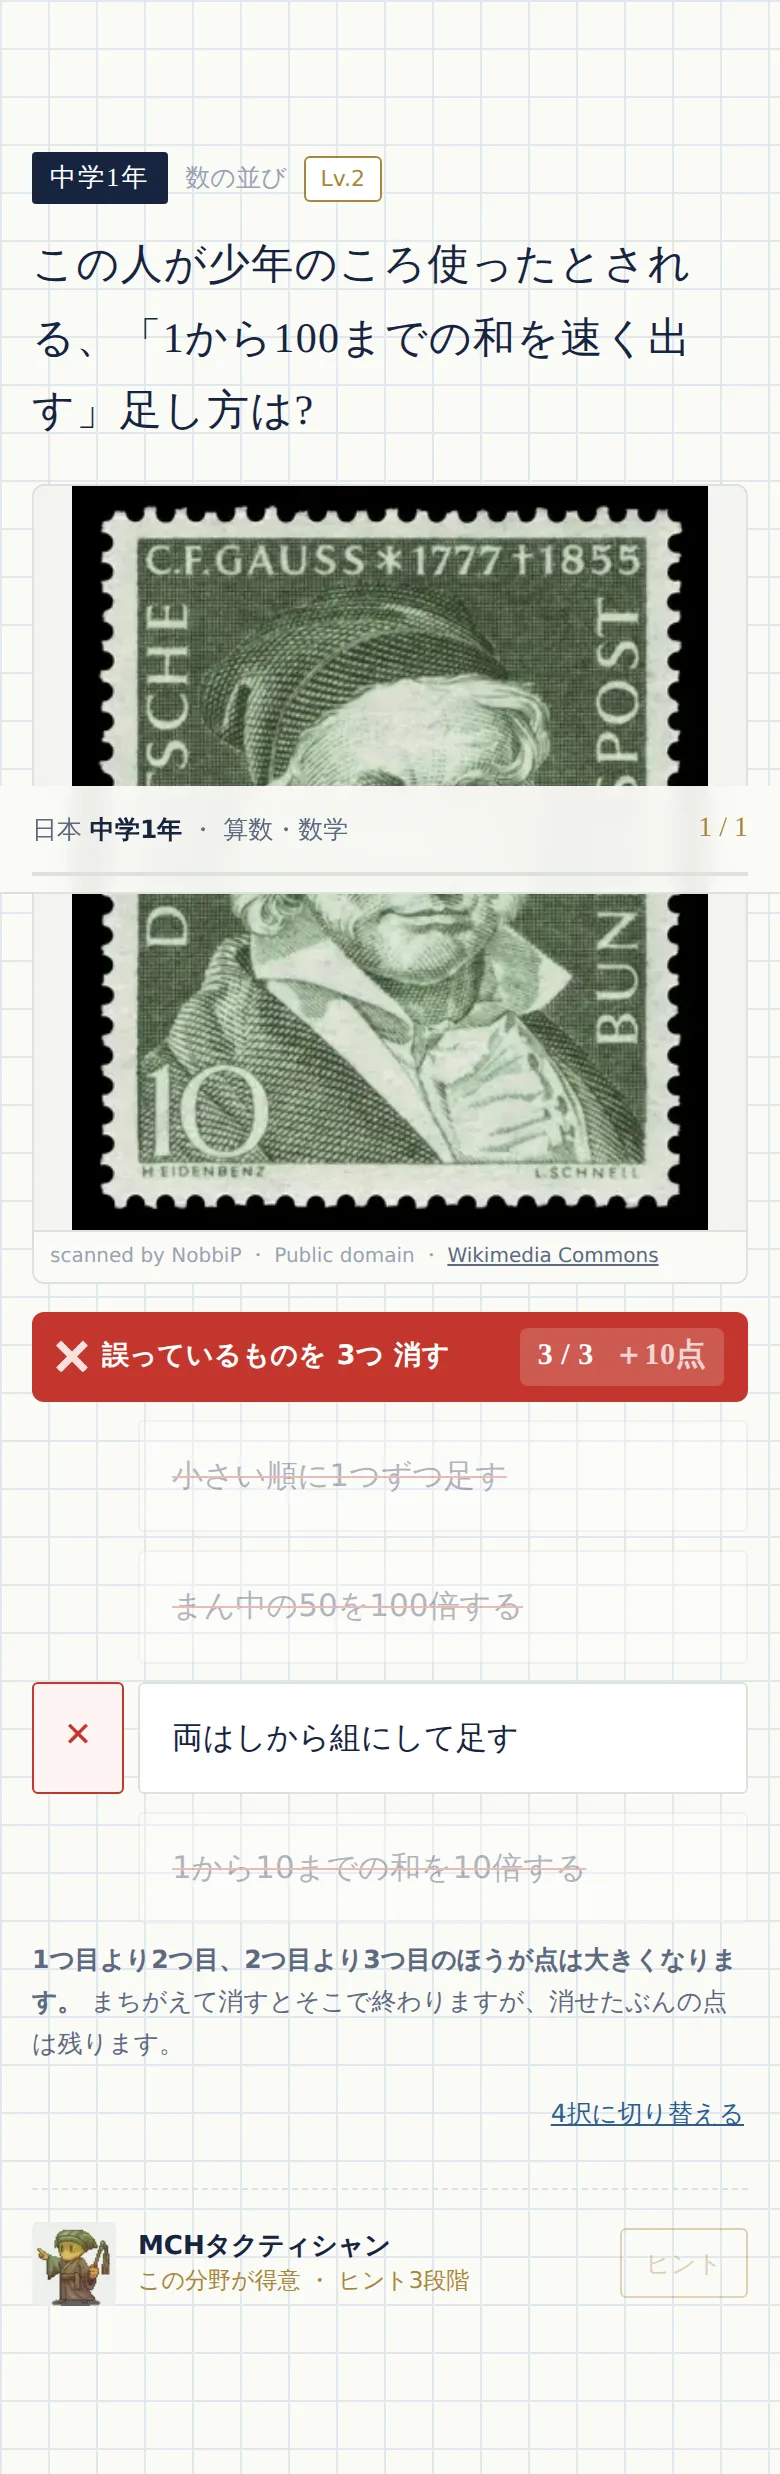
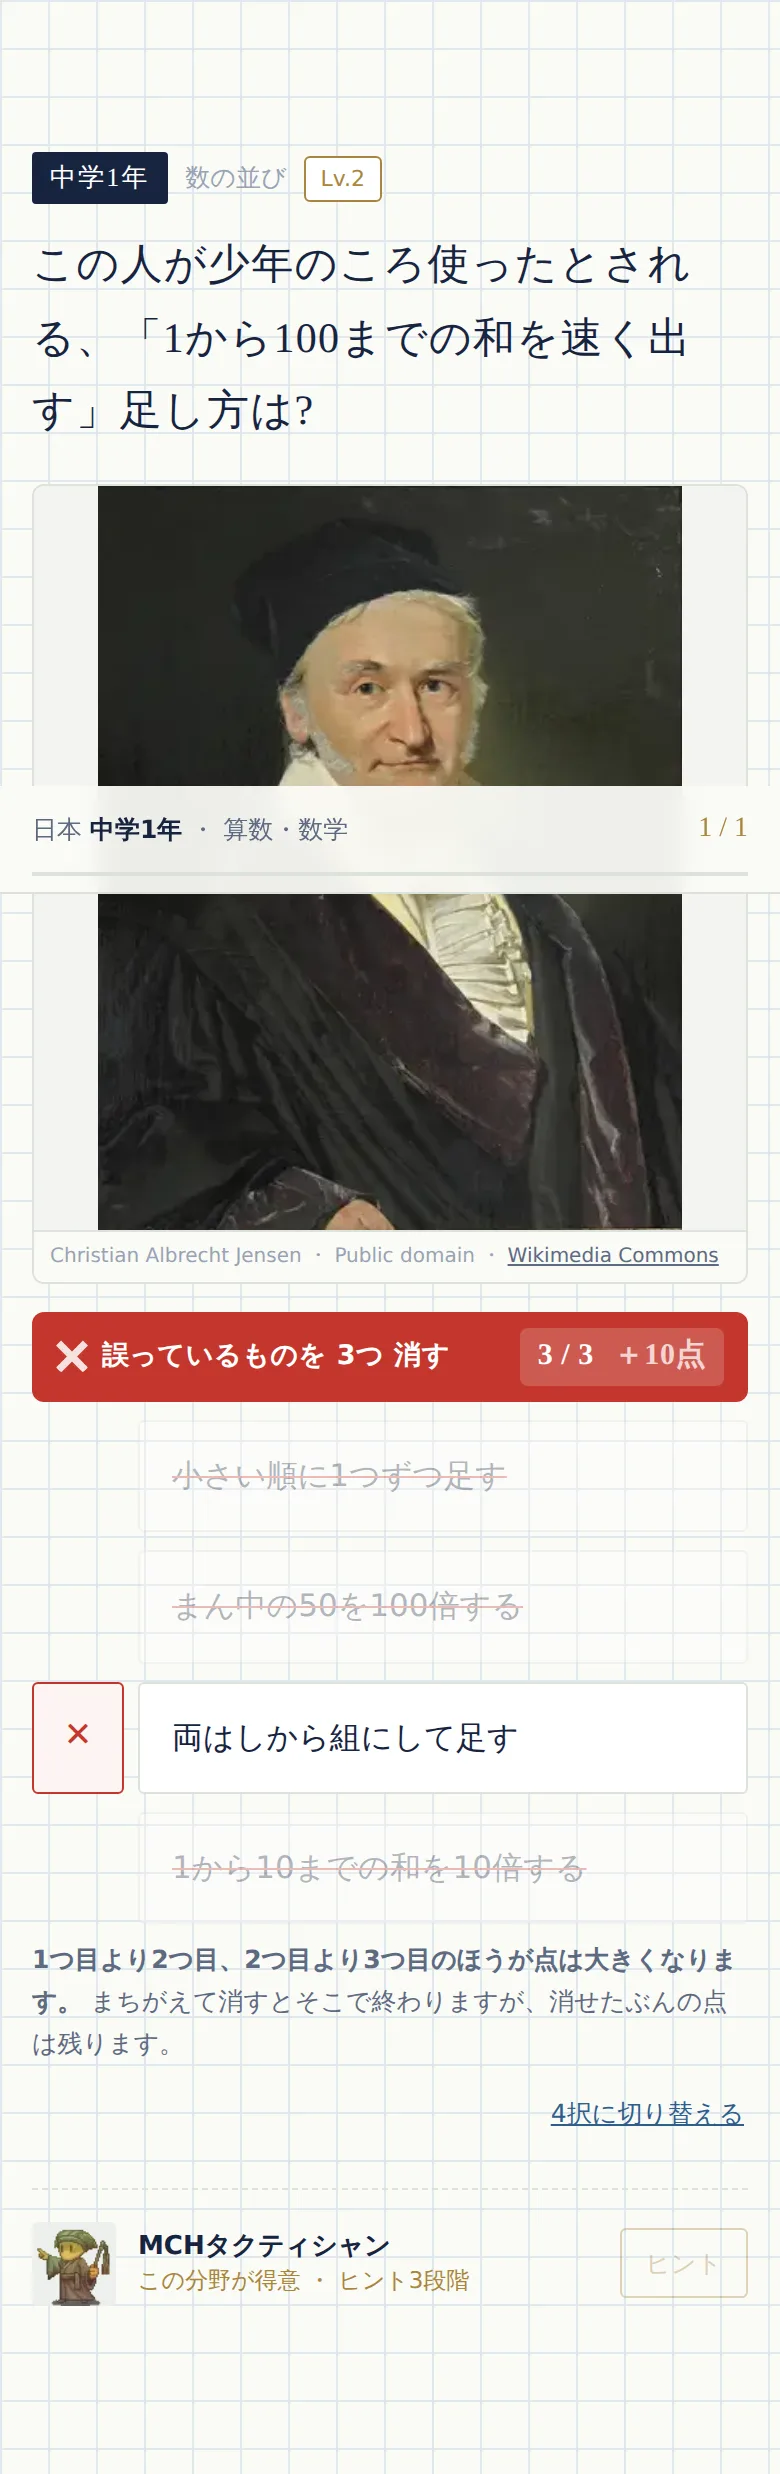
写真3枚を配線し、切手を肖像画に差し替える
採れた3枚（いずれも PD / CC0）を実際に画面へ入れた。

- sansu-105 の写真を、ガウスの切手から Jensen の肖像画へ。
  切手には C.F.GAUSS と刷られていて、応用編「この人の名前は?」が
  絵から読めてしまっていた。肖像画には文字が無いので問いが成立する
- kokugo-012 を4枚とも写真にし、役目を終えた線画4つを figures.json
  から外した（図版 11 → 7）

あわせて3つ直した。

- クレジットに「&amp;」と出ていた。コモンズの Artist 欄は HTML なので、
  タグを外すだけでは実体参照が残る。commons-lib で復号するようにした
- validate が choiceArt を数えず、使っている写真を「参照されていません」と
  誤警告していた
- smoke が絵を svg で数えていて、写真に差し替えたとたん 0 になった。
  包み（.cart）で数える形にして、図版でも写真でも通るようにした

犬の写真は狙いと違うものが採れている（立ち姿のつもりが、伏せて箱を
くわえた上からの絵）。読めなくはないが4枚でいちばん弱い。
差し替え候補を review-points.md §19 に残した。

Claude-Session: https://claude.ai/code/session_01HQarYNyuWkC6NYJVcfcKzq

Changed region(s): [[0.0923, 0.1867, 0.9231, 0.5291]]

diff --git a/docs/screens/index.html b/docs/screens/index.html
@@ -27,7 +27,7 @@ figcaption{padding:10px 13px 13px}
 @media (max-width:480px){main{padding:14px;gap:14px}}
 </style></head><body>
 <header><h1>画面の一覧 ・ 24 / 24 枚</h1>
-<p>2026-09-16 12:13 に <code>npm run shots</code> で撮ったもの。幅 390px（iPhone相当）の実機ブラウザーです。
+<p>2026-09-16 22:30 に <code>npm run shots</code> で撮ったもの。幅 390px（iPhone相当）の実機ブラウザーです。
 絵を押すと原寸で開きます。<b>「S-06 の帯が…」のようにIDで指してください。</b>
 出題の画面には、撮ったときの設問IDも出しています。
 実機で見ているときは、URLの末尾に <code>#review</code> を付けると画面の隅に同じ番号が出ます。</p></header>
@@ -118,7 +118,7 @@ figcaption{padding:10px 13px 13px}
     <p class="nm">解説</p>
     <p class="nt">正解でも不正解でも出る。知識カードとGUMもここ</p>
     <p class="qid">設問 <b>sansu-105</b></p>
-    <p class="sz">780×2474 ・ 128KB</p>
+    <p class="sz">780×2474 ・ 91KB</p>
   </figcaption></figure>
 <figure class="">
   <div class="shot"><a href="S-12.webp" target="_blank" rel="noopener"><img src="S-12.webp" alt="応用編（二段構え）" loading="lazy"></a></div>
@@ -126,7 +126,7 @@ figcaption{padding:10px 13px 13px}
     <p class="nm">応用編（二段構え）</p>
     <p class="nt">正解したときだけ出る。定理 → 発見者</p>
     <p class="qid">設問 <b>sansu-105</b></p>
-    <p class="sz">780×2474 ・ 128KB</p>
+    <p class="sz">780×2474 ・ 91KB</p>
   </figcaption></figure>
 <figure class="">
   <div class="shot"><a href="S-13.webp" target="_blank" rel="noopener"><img src="S-13.webp" alt="スワイプのふりかえり" loading="lazy"></a></div>

diff --git a/docs/review-points.md b/docs/review-points.md
@@ -945,3 +945,31 @@ www.wikidata.org:443      - 同上
 - [ ] **`npm run pick:commons` は作りすぎでした。** 「私が探せない」という前提で
       組んだものです。前提が変わったので、いまは**自分で選びたいときの道具**に
       格下げしています。消してはいません（実体引きはこちらにも効くため）
+
+## 19. 写真3枚が入りました ← 新規
+
+| キー | 採れたもの | ライセンス | 判定 |
+|---|---|---|---|
+| `gauss-portrait` | Jensen による肖像画（1840） | PD | **文句なし。** 画中に文字が無い |
+| `obj-pan` | 網の上の丸いパン | CC0 | 使える。切り込みと焼き色で「パン」と読める |
+| `obj-inu` | 布の上で顔を伏せた子犬 | CC0 | **いちばん弱い** |
+
+- [ ] **犬の写真は、狙っていたものと違います。** 「全身が見える向きで立っている」
+      つもりが、**上から見た伏せの姿勢で、小さな箱をくわえています。**
+      88px で見ると白黒の塊に近く、4枚のうちいちばん読みにくいです。
+      ◯◯（2文字）が効くので当てられはしますが、**差し替えるならここです**
+      （候補：`File:Dog (Unsplash).jpg` / `File:Goldendoodle standing.jpg`）
+- [x] `sansu-105` を切手から肖像画へ差し替えました。**応用編「この人の名前は?」が
+      本物の問いになりました**（切手には `C.F.GAUSS` と刷られていたため）
+- [x] `kokugo-012` を4枚とも写真にし、`ja-yama` ほか4つの線画を `figures.json` から
+      外しました（図版 11 → 7）
+
+### 19-1. 直したもの
+
+- **クレジットに `&amp;` と出ていました。** コモンズの Artist 欄は HTML なので、
+  タグを外すだけでは実体参照が残ります（`Nutrition, Food Safety &amp; Health`）。
+  `commons-lib.mjs` で復号するようにしました
+- **validate が「参照されていません」と誤警告していました。** `q.image` だけを見ていて、
+  `choiceArt` を数えていませんでした
+- **smoke が SVG を数えていました。** 写真に差し替えたとたん 0 になったので、
+  包み（`.cart`）で数える形に変えました。**図版でも写真でも通ります**
